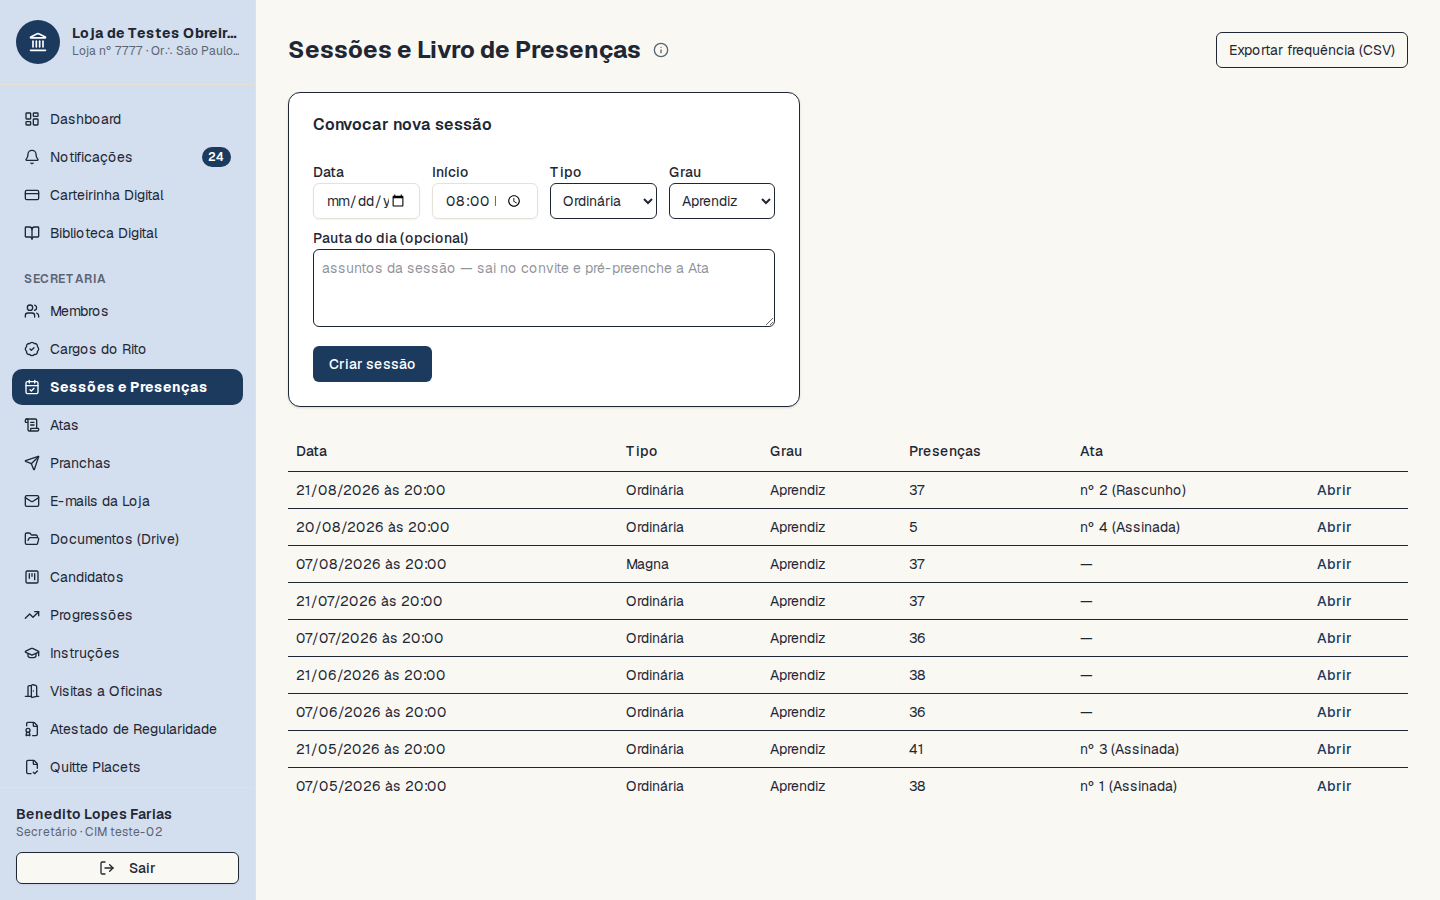
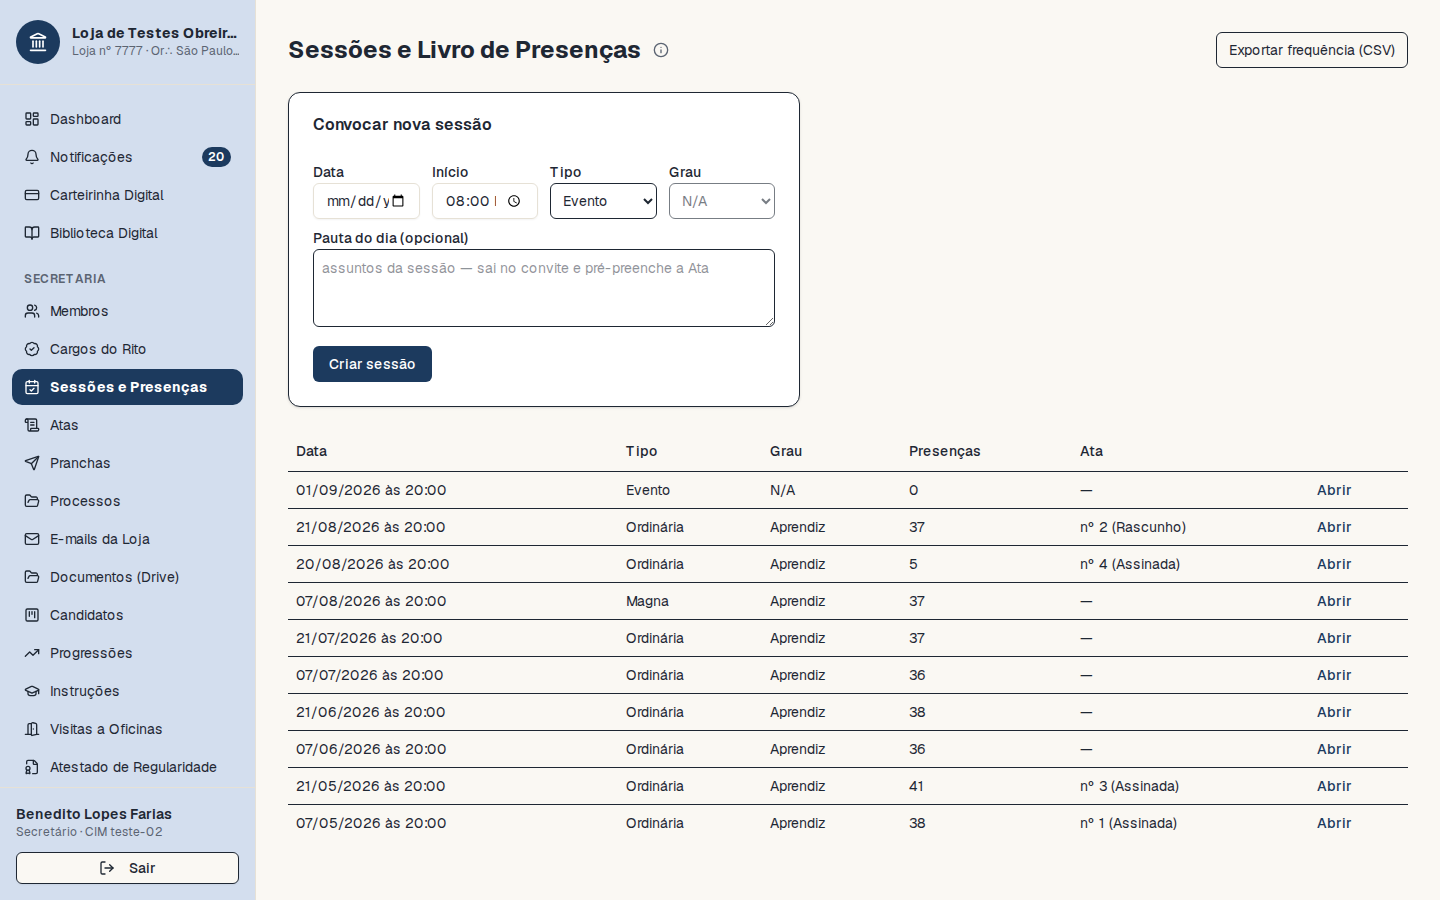
Sessões: tipo 'Evento' (sem Ágape no convite/RSVP) e grau 'N/A' travado ao escolher Evento — enums SessionType.EVENTO e Degree.NA com migrações; convite público, e-mail e arte omitem Ágape/grau; componente TipoGrauSelects; roteiros 1.6/2.4 e print de Sessões atualizados
Claude-Session: https://claude.ai/code/session_0191ZEqE1zF3psnBpsdHNXHD

diff --git a/gestao-loja/src/app/(app)/secretaria/sessoes/[id]/page.tsx b/gestao-loja/src/app/(app)/secretaria/sessoes/[id]/page.tsx
@@ -74,6 +74,7 @@ export default async function SessaoPage({
 
   // RSVP pelo convite: confirmados (antes do dia) e total do Ágape
   const confirmados = session.attendances.filter((a) => a.rsvpAt);
+  const isEvento = session.type === "EVENTO";
   const agapeTotal = session.attendances.filter(
     (a) => a.agapeConfirmed
   ).length;
@@ -179,18 +180,21 @@ export default async function SessaoPage({
           hour: "2-digit",
           minute: "2-digit",
         })}{" "}
-        <span className="text-base font-normal text-muted-foreground">
-          (grau {degreeLabels[session.degree] ?? session.degree})
-        </span>
+        {session.degree !== "NA" && (
+          <span className="text-base font-normal text-muted-foreground">
+            (grau {degreeLabels[session.degree] ?? session.degree})
+          </span>
+        )}
       </h1>
 
       {isWriter && (
         <Card>
           <CardHeader>
-            <CardTitle>Convite da Sessão (RSVP + Ágape)</CardTitle>
+            <CardTitle>{isEvento ? "Convite do Evento (RSVP)" : "Convite da Sessão (RSVP + Ágape)"}</CardTitle>
             <CardDescription>
-              Compartilhe o link do convite para os irmãos e visitantes
-              confirmarem presença — e o Ágape — antes da sessão.
+              {isEvento
+                ? "Compartilhe o link do convite para os irmãos e visitantes confirmarem presença antes do evento."
+                : "Compartilhe o link do convite para os irmãos e visitantes confirmarem presença — e o Ágape — antes da sessão."}
             </CardDescription>
           </CardHeader>
           <CardContent className="space-y-4">
@@ -230,9 +234,11 @@ export default async function SessaoPage({
               <Badge variant="secondary">
                 {confirmados.length} presença(s) confirmada(s)
               </Badge>
-              <Badge className="border-amber-200 bg-amber-50 text-warning">
-                {agapeTotal} para o Ágape
-              </Badge>
+              {!isEvento && (
+                <Badge className="border-amber-200 bg-amber-50 text-warning">
+                  {agapeTotal} para o Ágape
+                </Badge>
+              )}
             </div>
           </CardContent>
         </Card>
@@ -474,7 +480,7 @@ export default async function SessaoPage({
                               hour: "2-digit",
                               minute: "2-digit",
                             })}
-                            {att.agapeConfirmed ? " · Ágape" : ""}
+                            {att.agapeConfirmed && !isEvento ? " · Ágape" : ""}
                           </Badge>
                           {isWriter && (!session.ata || ataEditavel) && (
                             <ActionButton
@@ -504,7 +510,7 @@ export default async function SessaoPage({
                         </span>
                       ) : att ? (
                         <Badge className="border-blue-200 bg-blue-50 text-blue-700">
-                          Confirmado{att.agapeConfirmed ? " · Ágape" : ""}
+                          Confirmado{att.agapeConfirmed && !isEvento ? " · Ágape" : ""}
                         </Badge>
                       ) : (
                         <Badge variant="secondary">Ausente</Badge>
@@ -561,7 +567,7 @@ export default async function SessaoPage({
                   {a.visitorName}
                   {a.visitorLodge ? ` · ${a.visitorLodge}` : ""}
                   {a.visitorPotencia ? ` / ${a.visitorPotencia}` : ""}
-                  {a.agapeConfirmed && (
+                  {a.agapeConfirmed && !isEvento && (
                     <Badge className="ml-2 border-amber-200 bg-amber-50 text-warning">
                       Ágape
                     </Badge>

diff --git a/gestao-loja/src/app/convite/[token]/page.tsx b/gestao-loja/src/app/convite/[token]/page.tsx
@@ -124,6 +124,7 @@ export default async function ConvitePage({
     include: { lodge: true },
   });
   if (!session) notFound();
+  const isEvento = session.type === "EVENTO";
 
   // Loja com template próprio (HTML ou arte): exibe o convite preenchido com
   // os dados da sessão, igual ao e-mail enviado; o {{LINK}} vira âncora para o
@@ -189,8 +190,12 @@ export default async function ConvitePage({
                 hour: "2-digit",
                 minute: "2-digit",
               })}
-              {" — grau "}
-              {degreeLabels[session.degree] ?? session.degree}
+              {session.degree !== "NA" && (
+                <>
+                  {" — grau "}
+                  {degreeLabels[session.degree] ?? session.degree}
+                </>
+              )}
             </CardDescription>
           </CardHeader>
         )}
@@ -216,7 +221,7 @@ export default async function ConvitePage({
                 Logado como <strong>{authSession.user.name}</strong>.
               </p>
               <ActionForm action={memberAction} submitLabel="Confirmar presença">
-                <AgapeCheckbox />
+                {!isEvento && <AgapeCheckbox />}
               </ActionForm>
               <details className="rounded-md border p-3">
                 <summary className="cursor-pointer text-sm font-medium">
@@ -263,7 +268,7 @@ export default async function ConvitePage({
                 <Label htmlFor="email">E-mail</Label>
                 <Input id="email" name="email" type="email" />
               </div>
-              <AgapeCheckbox />
+              {!isEvento && <AgapeCheckbox />}
             </ActionForm>
           )}
           {!authSession?.user && (
@@ -289,8 +294,9 @@ export default async function ConvitePage({
             </details>
           )}
           <p className="text-center text-xs text-muted-foreground">
-            A confirmação antecipada ajuda a Secretaria a organizar a sessão e o
-            Ágape. TFA!
+            {isEvento
+              ? "A confirmação antecipada ajuda a Secretaria a organizar o evento. TFA!"
+              : "A confirmação antecipada ajuda a Secretaria a organizar a sessão e o Ágape. TFA!"}
           </p>
         </CardContent>
       </Card>

diff --git a/gestao-loja/src/app/(app)/secretaria/sessoes/tipo-grau-selects.tsx b/gestao-loja/src/app/(app)/secretaria/sessoes/tipo-grau-selects.tsx
@@ -1,0 +1,60 @@
+"use client";
+
+import { useState } from "react";
+import { Label } from "@/components/ui/label";
+import { degreeLabels, sessionTypeLabels } from "@/lib/labels";
+
+// Selects de Tipo e Grau da nova sessão. Quando o tipo é EVENTO, o grau
+// trava em N/A (e volta para Aprendiz ao sair de Evento).
+export function TipoGrauSelects() {
+  const [tipo, setTipo] = useState("ORDINARIA");
+  const [grau, setGrau] = useState("APRENDIZ");
+  const isEvento = tipo === "EVENTO";
+
+  return (
+    <>
+      <div className="space-y-1">
+        <Label htmlFor="type">Tipo</Label>
+        <select
+          id="type"
+          name="type"
+          value={tipo}
+          onChange={(e) => {
+            const novo = e.target.value;
+            setTipo(novo);
+            if (novo === "EVENTO") setGrau("NA");
+            else if (grau === "NA") setGrau("APRENDIZ");
+          }}
+          className="h-9 w-full rounded-md border bg-transparent px-2 text-sm"
+        >
+          {Object.entries(sessionTypeLabels).map(([value, label]) => (
+            <option key={value} value={value}>
+              {label}
+            </option>
+          ))}
+        </select>
+      </div>
+      <div className="space-y-1">
+        <Label htmlFor="degree">Grau</Label>
+        {/* select disabled não entra no FormData — o hidden garante o envio */}
+        {isEvento && <input type="hidden" name="degree" value="NA" />}
+        <select
+          id="degree"
+          name={isEvento ? undefined : "degree"}
+          value={grau}
+          disabled={isEvento}
+          onChange={(e) => setGrau(e.target.value)}
+          className="h-9 w-full rounded-md border bg-transparent px-2 text-sm disabled:opacity-60"
+        >
+          {Object.entries(degreeLabels)
+            .filter(([value]) => (isEvento ? value === "NA" : true))
+            .map(([value, label]) => (
+              <option key={value} value={value}>
+                {label}
+              </option>
+            ))}
+        </select>
+      </div>
+    </>
+  );
+}

diff --git a/gestao-loja/src/lib/convite.ts b/gestao-loja/src/lib/convite.ts
@@ -11,6 +11,7 @@ export const CONVITE_PLACEHOLDERS = [
   "{{HORA}}",
   "{{TIPO}}",
   "{{GRAU}}",
+  "{{LINHA_GRAU}}",
   "{{LINK}}",
   "{{FRASE}}",
   "{{PAUTA}}",
@@ -40,7 +41,7 @@ export const CONVITE_TEMPLATE_PADRAO = `<!doctype html>
               <table role="presentation" width="100%" cellpadding="0" cellspacing="0" style="background:#fafafa;border:1px solid #e4e4e7;border-radius:6px;">
                 <tr><td style="padding:16px 20px;font-size:14px;color:#18181b;line-height:1.9;">
                   <strong>Sessão:</strong> {{TIPO}}<br/>
-                  <strong>Grau:</strong> {{GRAU}}<br/>
+                  {{LINHA_GRAU}}
                   <strong>Data:</strong> {{DATA}}, às {{HORA}}{{PAUTA}}
                 </td></tr>
               </table>
@@ -198,7 +199,14 @@ export function renderConvite(
       minute: "2-digit",
     }),
     "{{TIPO}}": sessionTypeLabels[session.type] ?? session.type,
-    "{{GRAU}}": degreeLabels[session.degree] ?? session.degree,
+    "{{LINHA_GRAU}}":
+      session.degree === "NA"
+        ? ""
+        : `<strong>Grau:</strong> ${degreeLabels[session.degree] ?? session.degree}<br/>`,
+    "{{GRAU}}":
+      session.degree === "NA"
+        ? "N/A"
+        : (degreeLabels[session.degree] ?? session.degree),
     "{{LINK}}": inviteUrl,
     "{{FRASE}}": escapeHtml(renderFrase(lodge, session)).replaceAll(
       "\n",
@@ -210,8 +218,12 @@ export function renderConvite(
         ? `<br/><strong>Pauta:</strong> ${escapeHtml(session.pauta).replaceAll("\n", "<br/>")}`
         : "",
   };
-  return Object.entries(valores).reduce(
+  const html = Object.entries(valores).reduce(
     (html, [ph, valor]) => html.replaceAll(ph, valor),
     template
   );
+  // Eventos não têm Ágape: remove a menção da frase de confirmação
+  return session.type === "EVENTO"
+    ? html.replaceAll(" — e se ficará para o <strong>Ágape</strong> —", "")
+    : html;
 }

diff --git a/gestao-loja/src/app/(app)/secretaria/sessoes/page.tsx b/gestao-loja/src/app/(app)/secretaria/sessoes/page.tsx
@@ -6,6 +6,7 @@ import { requireUser } from "@/lib/session";
 import { canWriteSecretaria } from "@/lib/permissions";
 import { createSession } from "../actions";
 import { ActionForm } from "@/components/action-form";
+import { TipoGrauSelects } from "./tipo-grau-selects";
 import {
   sessionTypeLabels,
   degreeLabels,
@@ -76,34 +77,7 @@ export default async function SessoesPage() {
                     defaultValue="20:00"
                   />
                 </div>
-                <div className="space-y-1">
-                  <Label htmlFor="type">Tipo</Label>
-                  <select
-                    id="type"
-                    name="type"
-                    className="h-9 w-full rounded-md border bg-transparent px-2 text-sm"
-                  >
-                    {Object.entries(sessionTypeLabels).map(([value, label]) => (
-                      <option key={value} value={value}>
-                        {label}
-                      </option>
-                    ))}
-                  </select>
-                </div>
-                <div className="space-y-1">
-                  <Label htmlFor="degree">Grau</Label>
-                  <select
-                    id="degree"
-                    name="degree"
-                    className="h-9 w-full rounded-md border bg-transparent px-2 text-sm"
-                  >
-                    {Object.entries(degreeLabels).map(([value, label]) => (
-                      <option key={value} value={value}>
-                        {label}
-                      </option>
-                    ))}
-                  </select>
-                </div>
+                <TipoGrauSelects />
               </div>
               <div className="space-y-1">
                 <Label htmlFor="pauta">Pauta do dia (opcional)</Label>

diff --git a/gestao-loja/src/lib/convite-arte.ts b/gestao-loja/src/lib/convite-arte.ts
@@ -69,6 +69,8 @@ export async function arteComDados(
 
   const tipo = sessionTypeLabels[session.type] ?? session.type;
   const grau = degreeLabels[session.degree] ?? session.degree;
+  const tipoLinha =
+    session.degree === "NA" ? tipo : `${tipo} · Grau ${grau}`;
   const data = session.date.toLocaleDateString("pt-BR", {
     weekday: "long",
     day: "2-digit",
@@ -106,7 +108,7 @@ export async function arteComDados(
     .join("\n  ");
   const svg = `<svg width="${width}" height="${height}" xmlns="http://www.w3.org/2000/svg">
   <rect x="${px}" y="${py + Math.round(6 * f)}" width="${panelW}" height="${panelH - Math.round(12 * f)}" rx="${Math.round(14 * f)}" fill="#fffdf7" fill-opacity="0.88" stroke="#c9a84c" stroke-width="${Math.max(2, Math.round(3 * f))}"/>
-  <text x="${cx}" y="${yTipo}" text-anchor="middle" font-family="Georgia, 'Times New Roman', serif" font-size="${Math.round(30 * f)}" letter-spacing="${3 * f}" fill="#8a6d1f">${escXml(`${tipo} · Grau ${grau}`.toUpperCase())}</text>
+  <text x="${cx}" y="${yTipo}" text-anchor="middle" font-family="Georgia, 'Times New Roman', serif" font-size="${Math.round(30 * f)}" letter-spacing="${3 * f}" fill="#8a6d1f">${escXml(tipoLinha.toUpperCase())}</text>
   <text x="${cx}" y="${yData}" text-anchor="middle" font-family="Georgia, 'Times New Roman', serif" font-size="${Math.round(38 * f)}" font-weight="bold" fill="#1e3a5f">${escXml(`${data}, às ${hora}`)}</text>
   ${pautaSvg}
 </svg>`;

diff --git a/gestao-loja/src/lib/envios.ts b/gestao-loja/src/lib/envios.ts
@@ -55,7 +55,10 @@ export async function enviarConvitesSessao(lodgeId: string, sessionId: string) {
     to: await remetenteDa(lodgeId),
     bcc: emails,
     subject: `Convite — Sessão de ${dataFmt} · ${session.lodge.name}`,
-    text: `Convite para a sessão de ${dataFmt}. Confirme sua presença e o Ágape em: ${inviteUrl}`,
+    text:
+      session.type === "EVENTO"
+        ? `Convite para o evento de ${dataFmt}. Confirme sua presença em: ${inviteUrl}`
+        : `Convite para a sessão de ${dataFmt}. Confirme sua presença e o Ágape em: ${inviteUrl}`,
     html,
     attachments: arteFinal
       ? [

diff --git a/gestao-loja/src/app/(app)/secretaria/membros/[id]/historico-editor.tsx b/gestao-loja/src/app/(app)/secretaria/membros/[id]/historico-editor.tsx
@@ -63,7 +63,7 @@ export function HistoricoGraus({ entries }: { entries: DegreeEntry[] }) {
                 }}
               >
                 <select name="degree" defaultValue={d.degree} className={selectClass + " w-40"}>
-                  {Object.entries(degreeLabels).map(([value, label]) => (
+                  {Object.entries(degreeLabels).filter(([value]) => value !== "NA").map(([value, label]) => (
                     <option key={value} value={value}>
                       {label}
                     </option>

diff --git a/gestao-loja/src/lib/intersticio.ts b/gestao-loja/src/lib/intersticio.ts
@@ -5,11 +5,11 @@ import { INTERSTICE_MONTHS } from "@/lib/permissions";
 // ordem Aprendiz → Companheiro → Mestre, respeitado o interstício mínimo no
 // grau atual contado da última elevação (ou da iniciação).
 
-export const ORDEM_GRAUS = [
+export const ORDEM_GRAUS: readonly Degree[] = [
   Degree.APRENDIZ,
   Degree.COMPANHEIRO,
   Degree.MESTRE,
-] as const;
+];
 
 export function progressaoSequencial(atual: Degree, novo: Degree) {
   return ORDEM_GRAUS.indexOf(novo) === ORDEM_GRAUS.indexOf(atual) + 1;

diff --git a/gestao-loja/src/lib/labels.ts b/gestao-loja/src/lib/labels.ts
@@ -12,6 +12,7 @@ export const degreeLabels: Record<string, string> = {
   APRENDIZ: "Aprendiz",
   COMPANHEIRO: "Companheiro",
   MESTRE: "Mestre",
+  NA: "N/A",
 };
 
 export const memberStatusLabels: Record<string, string> = {
@@ -26,6 +27,7 @@ export const sessionTypeLabels: Record<string, string> = {
   MAGNA: "Magna",
   ECONOMICA: "Econômica",
   BRANCA: "Branca",
+  EVENTO: "Evento",
 };
 
 export const ataStatusLabels: Record<string, string> = {

diff --git a/roteiros-prints/roteiros-videos-menus.md b/roteiros-prints/roteiros-videos-menus.md
@@ -80,7 +80,7 @@ O Obreiro comum vê: Dashboard, Notificações, Carteirinha Digital, Biblioteca 
 - **Na tela:** menu Sessões e Presenças → lista de sessões → QR Code de check-in exibido na sessão → celular escaneando e confirmando presença → Livro de Presenças com a frequência anual.
 - **Narração:**
 
-> Em Sessões e Presenças você acompanha a agenda da Loja: data, tipo de sessão — Ordinária, Magna, Econômica, Branca ou Evento — e grau. No dia da sessão, a presença é registrada de um jeito moderno: um QR Code é exibido na entrada, você aponta a câmera do celular, confirma — e pronto, presença lançada. Visitantes de outras Lojas também fazem o check-in pelo mesmo código, e recebem um certificado de visita. Tudo alimenta o Livro de Presenças, que mostra a frequência anual de cada irmão — um dado importante, porque a frequência mínima é requisito para a progressão de grau.
+> Em Sessões e Presenças você acompanha a agenda da Loja: data, tipo de sessão e grau. No dia da sessão, a presença é registrada de um jeito moderno: um QR Code é exibido na entrada, você aponta a câmera do celular, confirma — e pronto, presença lançada. Visitantes de outras Lojas também fazem o check-in pelo mesmo código, e recebem um certificado de visita. Tudo alimenta o Livro de Presenças, que mostra a frequência anual de cada irmão — um dado importante, porque a frequência mínima é requisito para a progressão de grau.
 
 ## 1.7 — Atas (visão do Obreiro) (`obreiro-atas.mp4`)
 
@@ -178,10 +178,10 @@ O Secretário vê tudo do Obreiro e mais: Cargos do Rito, Pranchas, E-mails da L
 ![Tela: secretario-sessoes](roteiros-prints/secretario-sessoes.png)
 
 - **Duração:** ~75 s.
-- **Na tela:** criar sessão (tipo, grau, data — ao escolher o tipo Evento, o grau trava em N/A) → convite com a arte da Loja gerado e enviado (WhatsApp) → QR de check-in → lançar presenças → Livro de Presenças → botão "Lavrar ata".
+- **Na tela:** criar sessão (tipo, grau, data) → convite com a arte da Loja gerado e enviado (WhatsApp) → QR de check-in → lançar presenças → Livro de Presenças → botão "Lavrar ata".
 - **Narração:**
 
-> A vida da Loja gira em torno das sessões — e aqui está todo o ciclo. Crie a sessão informando tipo, grau e data. Além das sessões ritualísticas, há o tipo Evento — para confraternizações e atividades abertas: o grau fica como N/A e o convite vai sem a confirmação de Ágape. O sistema gera o convite com a arte da própria Loja, pronto para enviar aos irmãos pelo WhatsApp. No dia, o QR Code de check-in registra a presença de membros e de visitantes — que recebem certificado de visita. Depois, o Livro de Presenças consolida a frequência anual de cada irmão, com alertas de quem está abaixo do mínimo. E, encerrada a sessão, um clique em "Lavrar ata" já abre o rascunho no modelo da Loja. Da convocação à ata, sem papel perdido.
+> A vida da Loja gira em torno das sessões — e aqui está todo o ciclo. Crie a sessão informando tipo, grau e data. O sistema gera o convite com a arte da própria Loja, pronto para enviar aos irmãos pelo WhatsApp. No dia, o QR Code de check-in registra a presença de membros e de visitantes — que recebem certificado de visita. Depois, o Livro de Presenças consolida a frequência anual de cada irmão, com alertas de quem está abaixo do mínimo. E, encerrada a sessão, um clique em "Lavrar ata" já abre o rascunho no modelo da Loja. Da convocação à ata, sem papel perdido.
 
 ## 2.5 — Atas: do rascunho à assinatura (`secretario-atas.mp4`)
 
